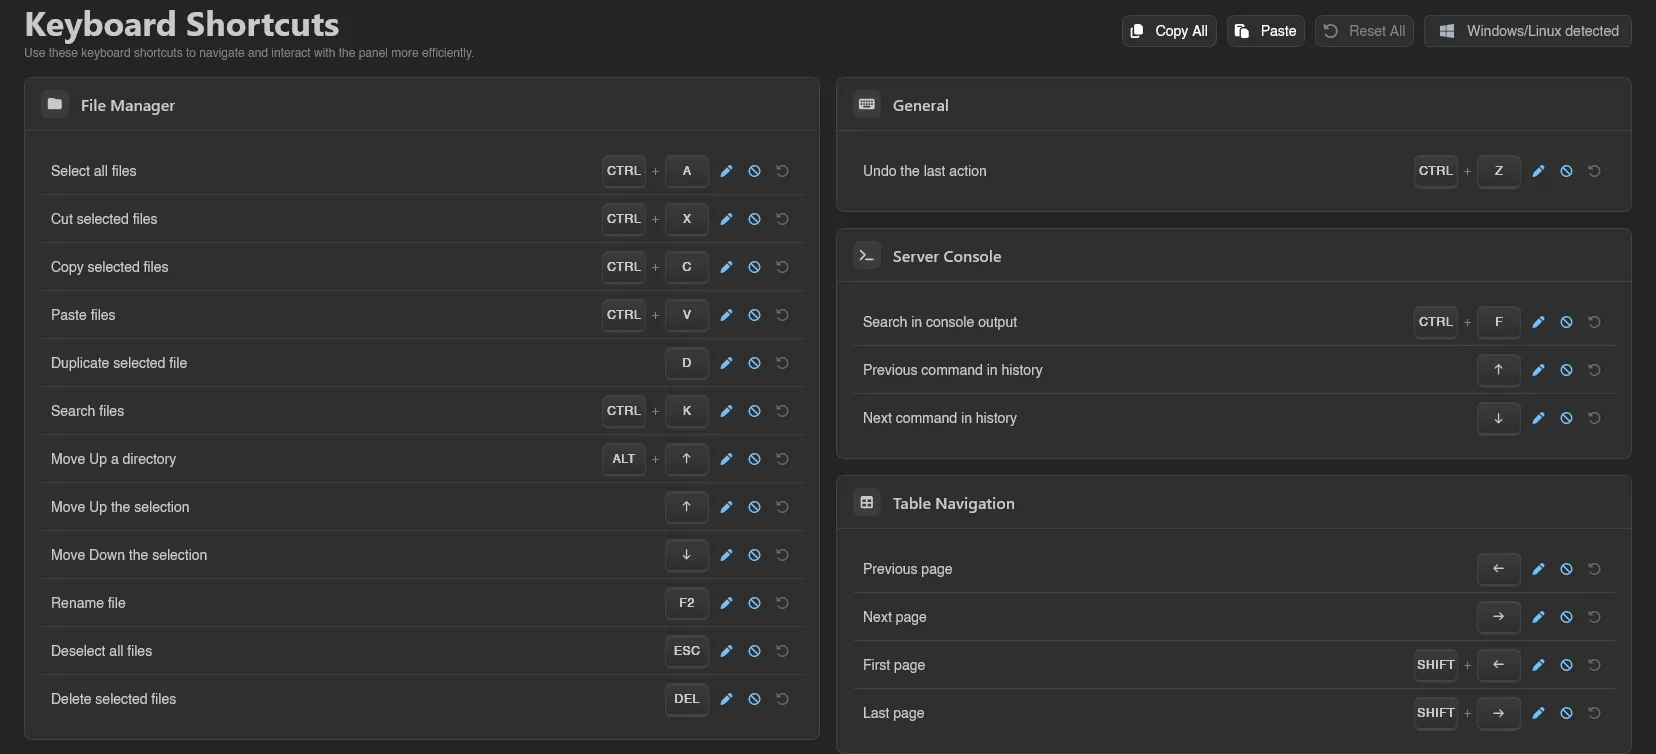
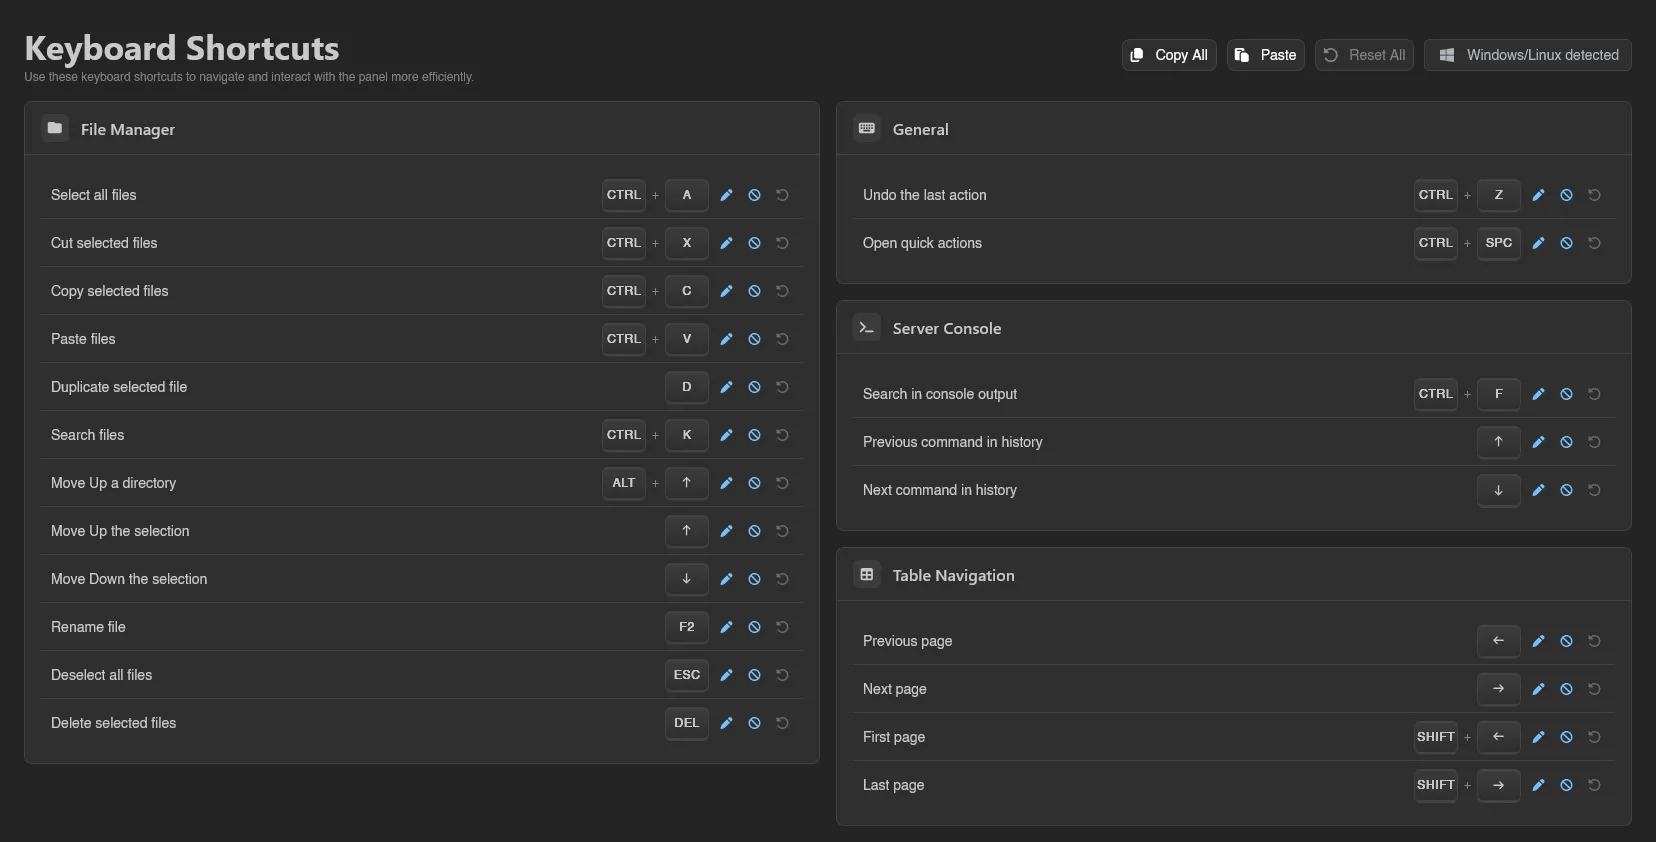
add quick actions

diff --git a/web/docs/panel/features/dashboard/index.md b/web/docs/panel/features/dashboard/index.md
@@ -22,9 +22,25 @@ The Dashboard is what every user lands on after logging in. It covers your own a
 
 ## Navigating the Dashboard
 
-The sidebar lists every page above, plus **Servers** and **Admin** (if you have admin permissions) at the top. At the bottom sits a server switcher: click into it to search and jump straight to one of your servers. The profile box below it leads to your [Account page](./account.md).
+The sidebar lists every page above, plus **Servers** and **Admin** (if you have admin permissions) at the top, under the **Quick actions** trigger (see below). At the bottom sits a server switcher: click into it to search and jump straight to one of your servers. The profile box below it leads to your [Account page](./account.md).
 
 <img src="./images/index/nav-search.webp" width="200" alt="" />
+
+## Quick Actions
+
+**Quick actions...** at the top of the sidebar, or `Ctrl+Space` anywhere (rebindable under [Keyboard Shortcuts](./keyboard-shortcuts.md), and it works even while typing in an input), opens a command palette: type to filter actions and pages by any part of their name, use the arrow keys to navigate, **Enter** to select, **Esc** to close.
+
+<img src="./images/index/quick-actions.webp" width="200" alt="Quick actions trigger" />
+
+What it offers follows where you are:
+
+- On the dashboard: your servers, to jump straight into one, plus every dashboard page.
+- Inside a server: the server's pages plus **Power** actions matching its state and your permissions (**Start** while offline, **Stop** and **Restart** while running, **Kill** while stopping).
+- In the admin area: **Back**, **Home**, and every admin page.
+
+<img src="./images/index/quick-actions-modal.webp" width="310" alt="Quick actions palette" />
+
+A **Logout** action is available everywhere, under **Account**.
 
 The three dots next to your name open a small menu to jump to your **Account** page, switch to the **Admin** area (admins only), pick a **Theme**, or log out. **Auto** follows your browser's theme, **Dark** and **Light** force one; the panel starts on **Dark** until you pick.
 

diff --git a/web/docs/panel/features/server/index.md b/web/docs/panel/features/server/index.md
@@ -25,7 +25,7 @@ Above every tab, the panel surfaces server-wide state: dismissible per-server an
 
 ## Server Header
 
-The sidebar stays the same on every tab. At the top, a status card shows the server's name, its current state (**Running**, **Starting**, **Stopping**, **Offline**, or a special status like installing or transferring), and its uptime while running.
+The sidebar stays the same on every tab. Above it, the [Quick actions](../dashboard/index.md#quick-actions) palette (`Ctrl+Space`) carries the server's pages and its state-aware power actions. At the top, a status card shows the server's name, its current state (**Running**, **Starting**, **Stopping**, **Offline**, or a special status like installing or transferring), and its uptime while running.
 
 Below that sit quick power buttons: **Start** while the server is offline, **Stop** while it runs, and a restart button. While the server is stopping, the button becomes **Kill**, with the same force-stop confirmation as on the [Console](./console.md).
 

diff --git a/web/docs/panel/features/admin/index.md b/web/docs/panel/features/admin/index.md
@@ -7,7 +7,7 @@ description: A tour of the Calagopus Admin area, the instance-wide side of the p
 
 The Admin area is the instance-wide side of the panel: nodes, servers, users, eggs, databases, and panel settings all live here. It's only visible to administrators: root admins (accounts with the **Admin** toggle, see [Users](./users.md)) and users granted admin permissions through a [Role](./roles.md). See the [Permissions Reference](../dashboard/permissions.md) for what each admin key covers.
 
-The sidebar starts with **Back** (returns to the dashboard) and **Home**, followed by these groups:
+The sidebar starts with **Back** (returns to the dashboard) and **Home**, followed by these groups, and the [Quick actions](../dashboard/index.md#quick-actions) palette (`Ctrl+Space`) jumps to any of these pages by name:
 
 ## System
 

diff --git a/web/docs/panel/features/dashboard/keyboard-shortcuts.md b/web/docs/panel/features/dashboard/keyboard-shortcuts.md
@@ -16,6 +16,7 @@ The panel detects whether you're on Windows/Linux or macOS and shows the matchin
 | General | Binding |
 | --- | --- |
 | Undo the last action | `Ctrl+Z` |
+| Open quick actions | `Ctrl+Space` |
 
 | File Manager | Binding |
 | --- | --- |
@@ -99,6 +100,8 @@ files.delete            = Delete
 [general] # General
 # Undo the last action
 general.undo            = Mod+Z
+# Open quick actions
+general.quickActions    = Mod+Space
 
 [console] # Server Console
 # Search in console output
